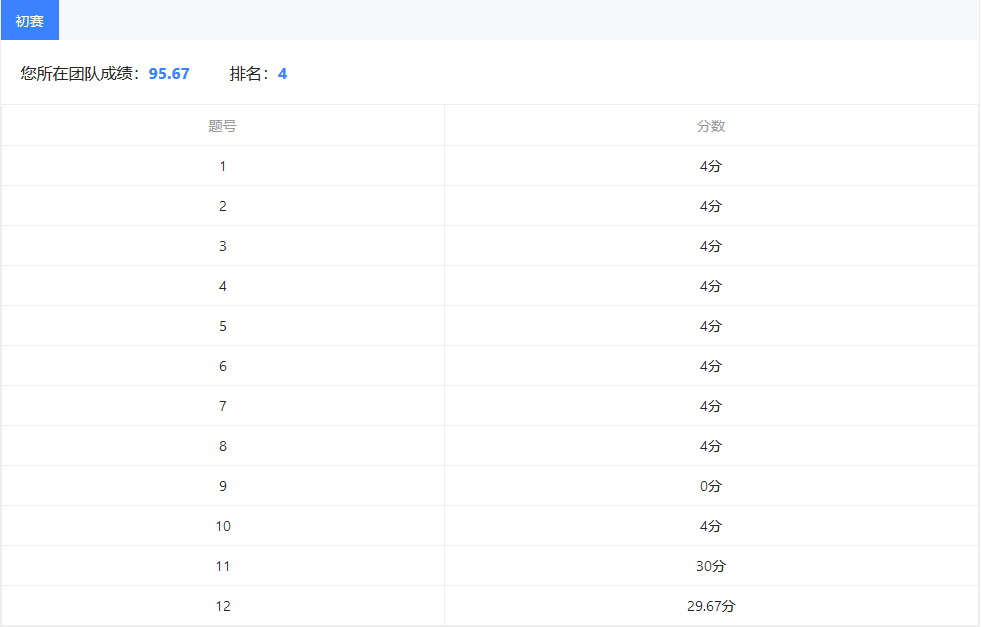
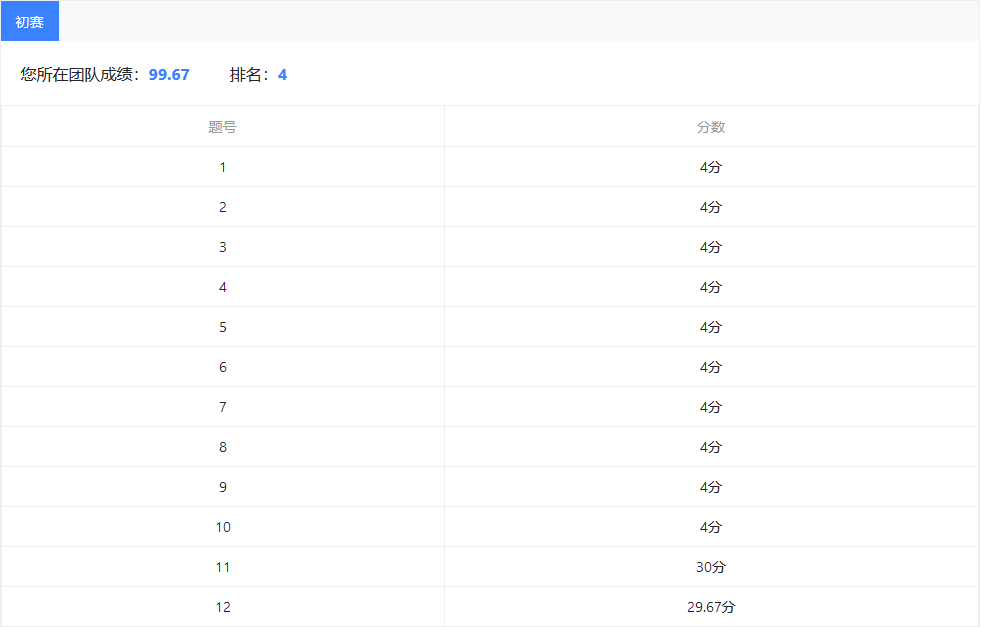
the score is updated, we might be the rank 1 :)

diff --git a/README.md b/README.md
@@ -8,9 +8,15 @@
 
 > 哦他妈的，还是有点苦难的……
 
-初赛最终得分 **95.67** 排名第 **4**，柑橘还彳亍！——但我们至今不明白 Q9 到底哪里错了 🤔
+<del> 初赛最终得分 **95.67** 排名第 **4**，柑橘还彳亍！——但我们至今不明白 Q9 到底哪里错了 🤔 </del>  
+哦牛逼，赛事组重修了评分，现在是 **99.67** 分了 😀，但是排名并没有变动，可能是因为决赛名单已经固定不能改了...
 
 决赛的 repo 在这里：[VQNet-text-sentiment-clf](https://github.com/Kahsolt/VQNet-text-sentiment-clf)
+
+
+#### reference
+
+- Tiny-Q: [https://github.com/Kahsolt/Tiny-Q](https://github.com/Kahsolt/Tiny-Q)
 
 ----
 
